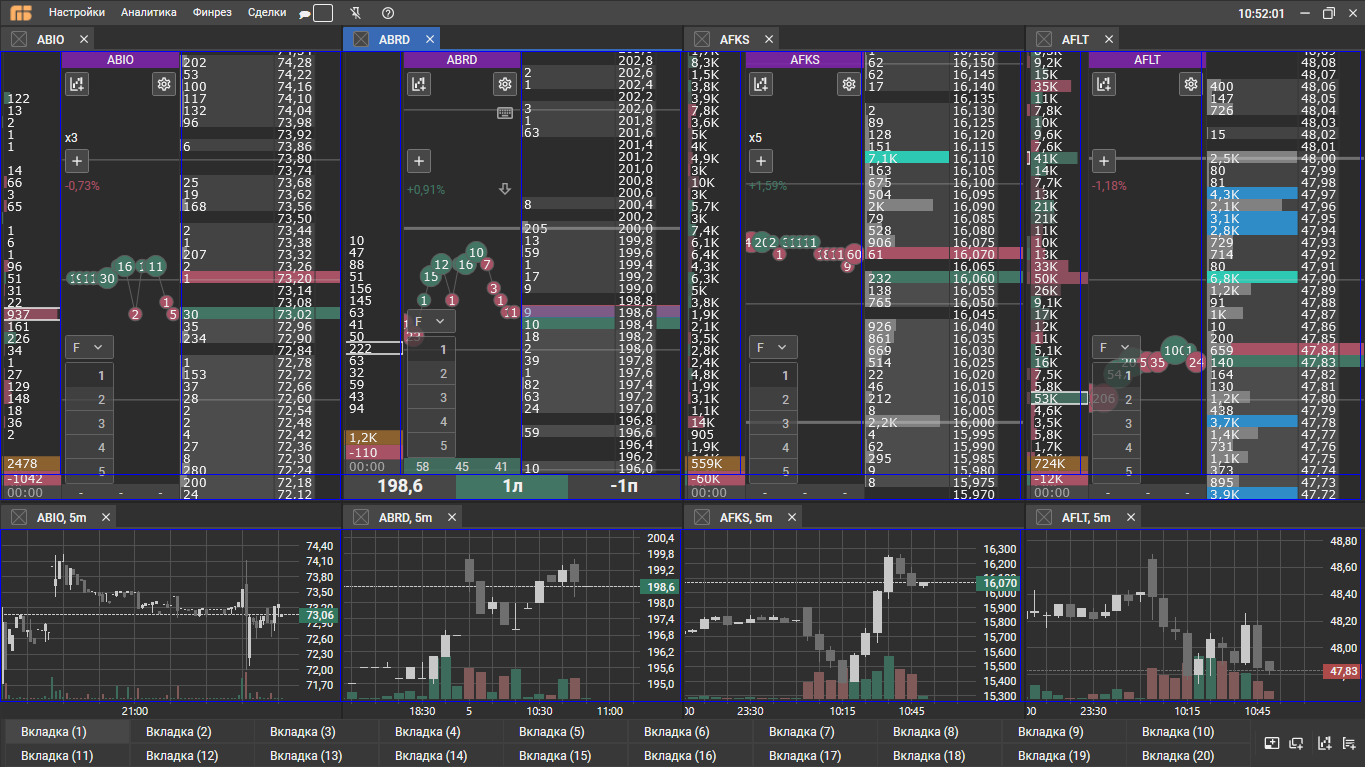
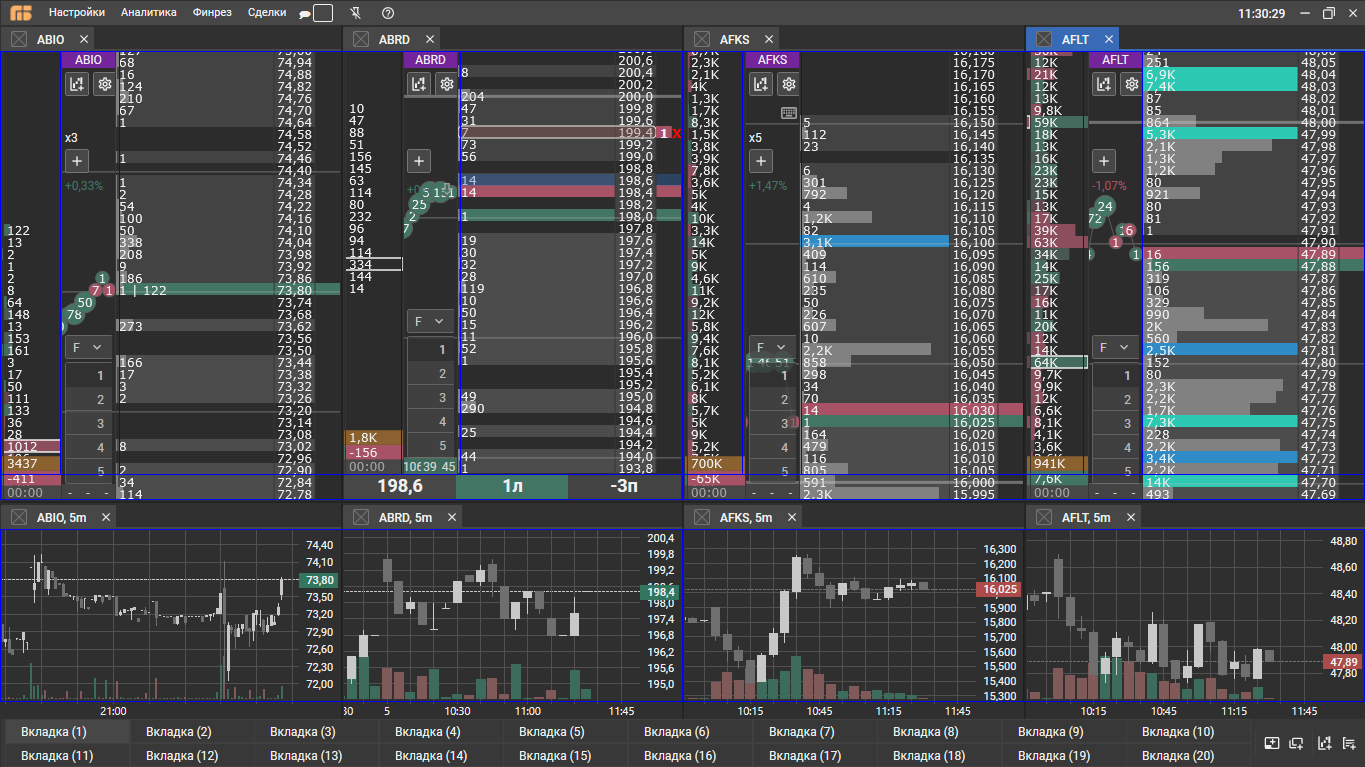
config rework

diff --git a/visual_traider_v1/test.py b/visual_traider_v1/test.py
@@ -26,14 +26,14 @@ gbw = GroupBotWrapper(
     0)
 img = cv2.imread('./Screen.png')
 gbw.draw_borders(img)
-img = cv2.imread('Screenshot_6.png')
+img = cv2.imread('Screenshot_7.png')
 gbw = GroupBotWrapper(
     VisualTraider_v2,
     ['Stock1','Stock2','Stock3','Stock4'],
     51,
-    1363,
+    1364,
     529,
-    159,
+    222,
     474,
     499,
     701,

diff --git a/visual_traider_v1/main.py b/visual_traider_v1/main.py
@@ -22,9 +22,9 @@ for i in range(len(stock_groups)):
     Traider1,
     ['Stock1','Stock2','Stock3','Stock4'],
     51,
-    1363,
+    1364,
     529,
-    159,
+    222,
     474,
     499,
     701,
